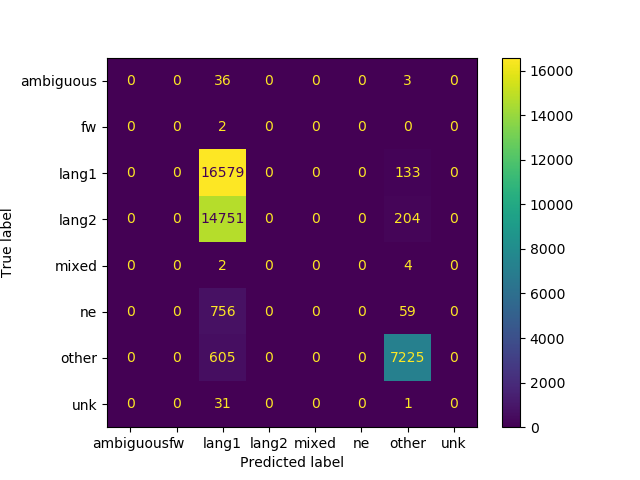
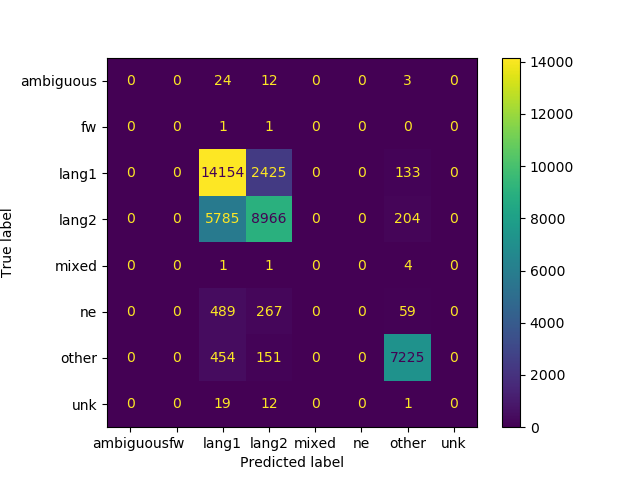
fixed bug when reading dictionaries, it was reading ngrams as type string instead of type tuple

diff --git a/code_switching_v2.py b/code_switching_v2.py
@@ -1,22 +1,21 @@
 import pandas as pd
-import os
+import matplotlib.pyplot as plt
+import ast
 from sklearn.metrics import accuracy_score
 from sklearn.metrics import f1_score
 from sklearn.metrics import ConfusionMatrixDisplay
 from sklearn.metrics import confusion_matrix
-import matplotlib.pyplot as plt
 from ngrams.ngrams import NGramModel
-from tools.utils import write_dict
 from tools.utils import is_other
 
 CHAR_LEVEL_DICTIONARIES_PATH = "./dictionaries/character-level/"
 
 # Get dictionaries
 print("Getting dictionaries...")
-frequency_en_df = pd.read_csv(CHAR_LEVEL_DICTIONARIES_PATH+'frequency_dict_en.csv',encoding='utf-16')
+frequency_en_df = pd.read_csv(CHAR_LEVEL_DICTIONARIES_PATH+'frequency_dict_en.csv',encoding='utf-16', converters={"word": ast.literal_eval})
 frequency_en_dict = frequency_en_df.set_index('word')['frequency'].to_dict()
 
-frequency_es_df = pd.read_csv(CHAR_LEVEL_DICTIONARIES_PATH+'frequency_dict_es.csv',encoding='utf-16')
+frequency_es_df = pd.read_csv(CHAR_LEVEL_DICTIONARIES_PATH+'frequency_dict_es.csv',encoding='utf-16', converters={"word": ast.literal_eval})
 frequency_es_dict = frequency_es_df.set_index('word')['frequency'].to_dict()
 
 # Apply ngram model to en, es and other

diff --git a/ngrams/ngrams.py b/ngrams/ngrams.py
@@ -45,6 +45,7 @@ class NGramModel:
 	def get_word_log_prob(self, word):
 		word_log_prob = 0
 		for i in range(len(word)):
+			prob = 0
 			if (i == 0):
 				bigram = ('<s>', word[i])
 				prob = self.get_freq(bigram) / self.get_freq(('<s>',))
@@ -56,6 +57,5 @@ class NGramModel:
 				bigram = (word[i], word[i + 1])
 				c = word[i]
 				prob = self.get_freq(bigram) / self.get_freq((c,))
-			# print(prob)
 			word_log_prob += np.log(prob)
 		return word_log_prob
